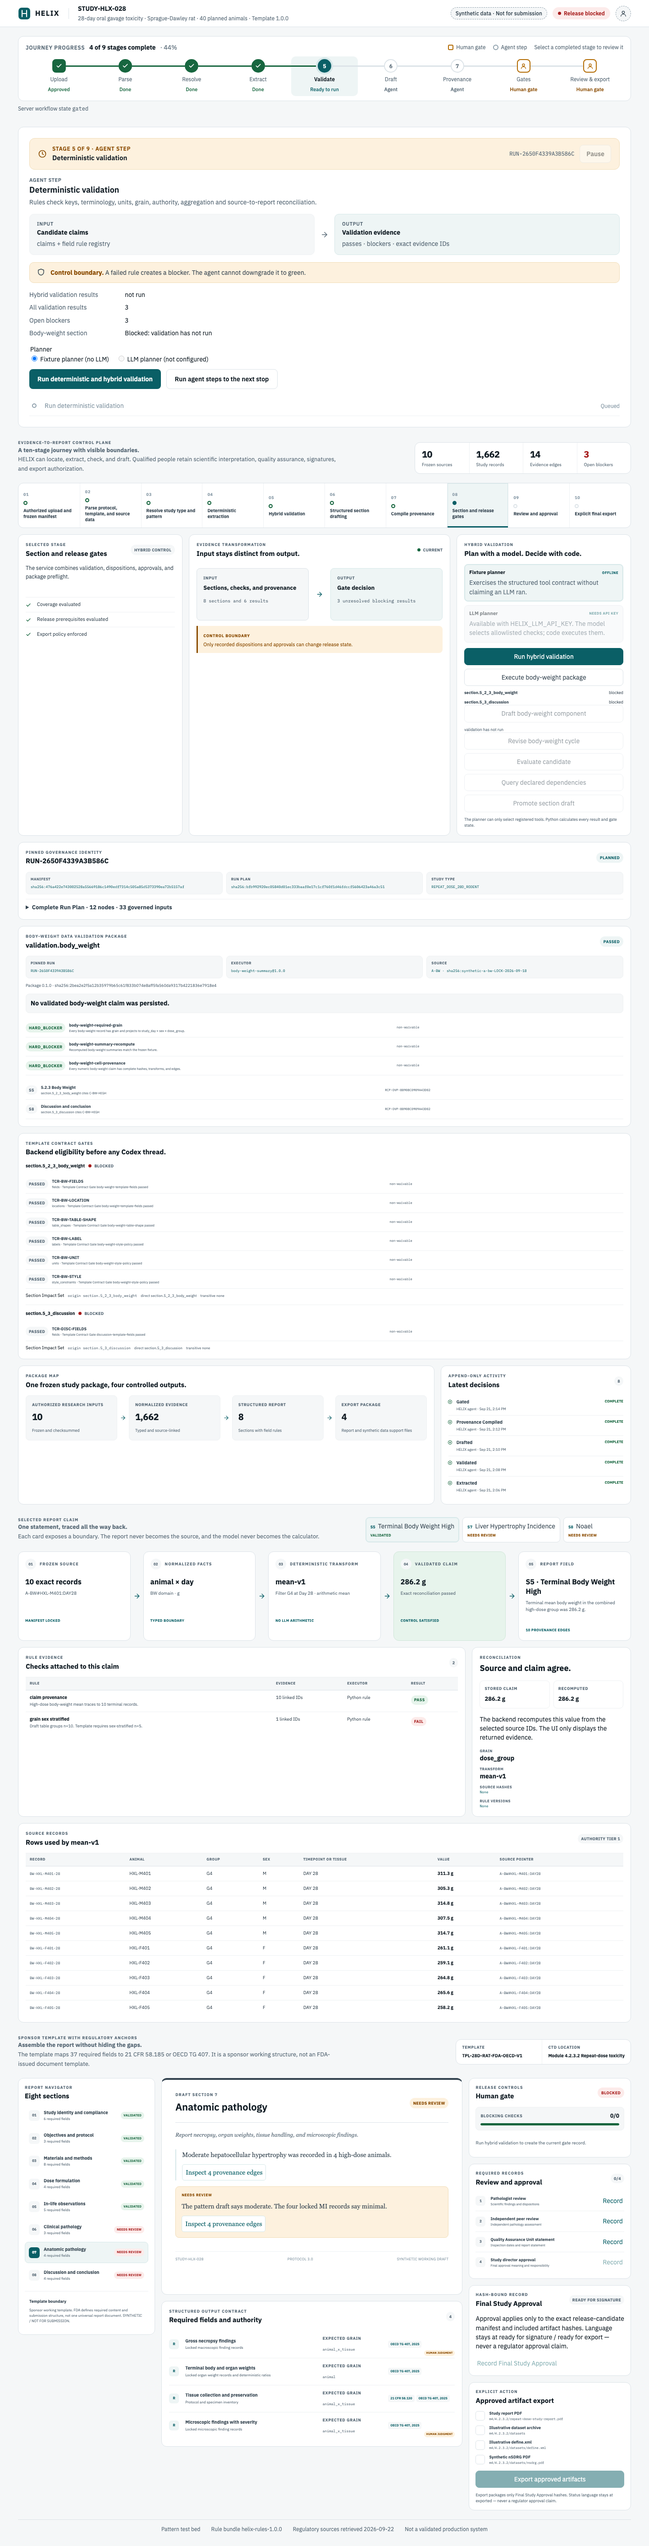
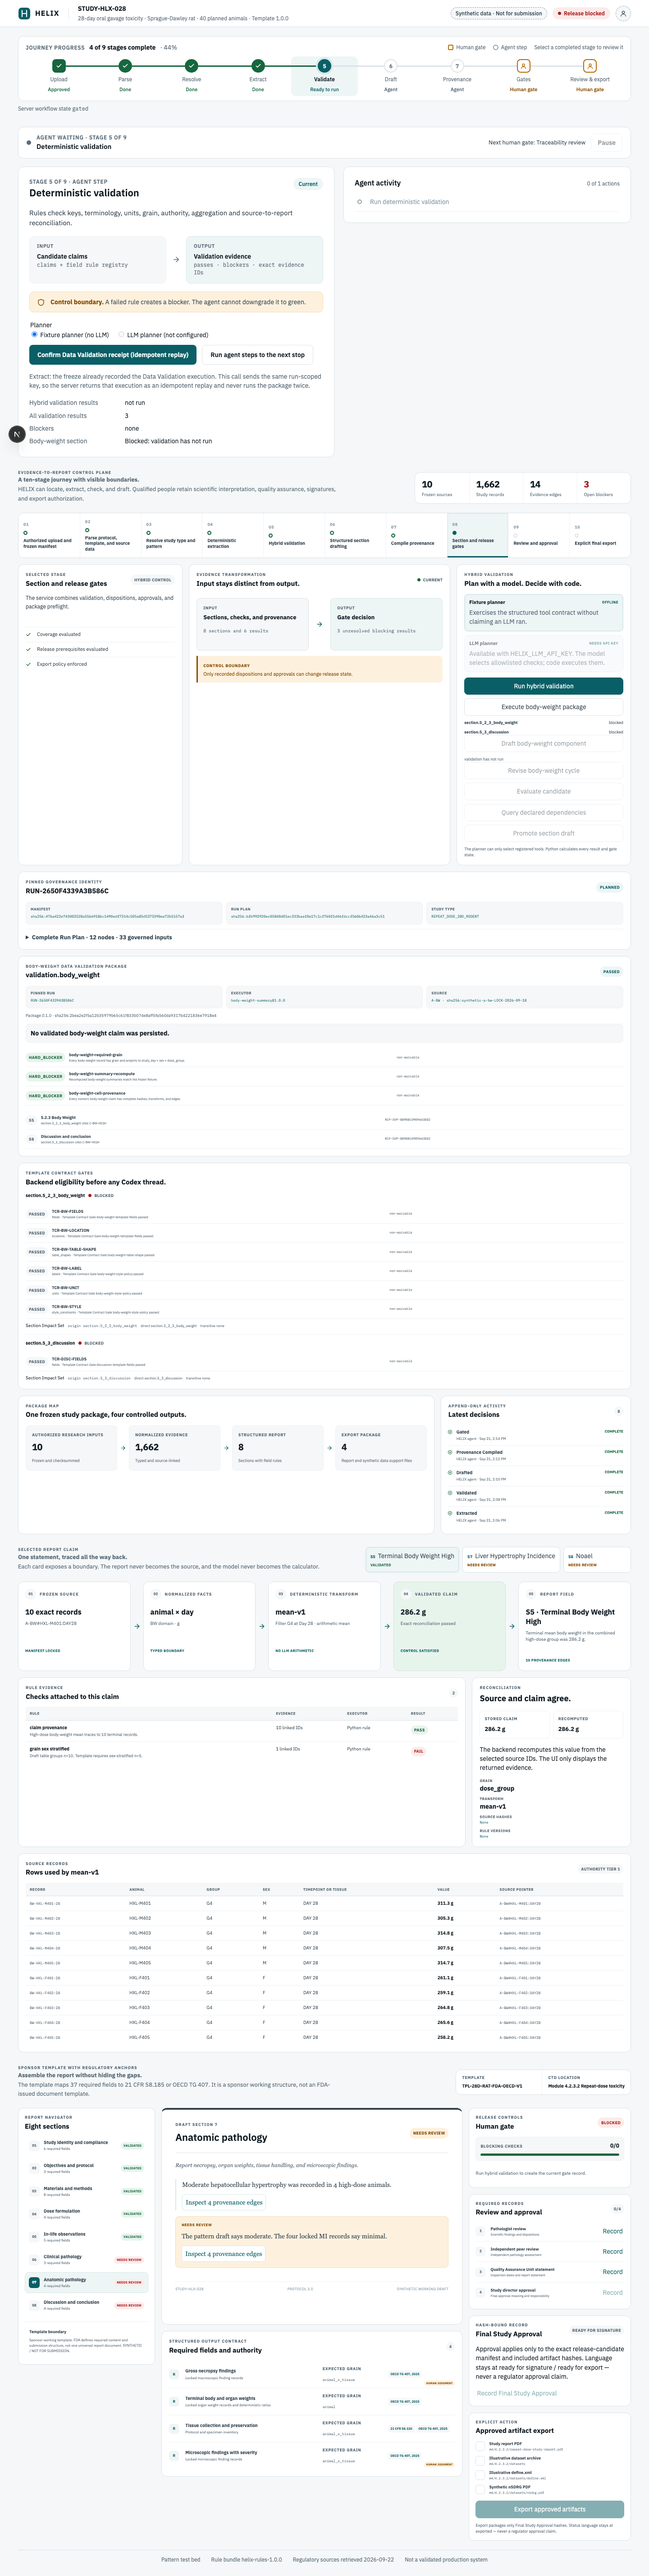
test(ui-lane-b): spec covers replay, #17 keys, live region, eligibility change (#21)
6 mocked Playwright tests; screenshots in evidence/ui-lane-b/.

diff --git a/steven/helix-prototypes/frontend/tests/agent-steps.spec.ts b/steven/helix-prototypes/frontend/tests/agent-steps.spec.ts
@@ -20,6 +20,12 @@ const BW_SECTION = "section.5_2_3_body_weight";
 const runId = freezeFixture.after.pinned_run.run_id;
 const dvResults = (freezeFixture.after.data_validation_executions as Json[])[0].results as Json[];
 
+const sectionNode = (freezeFixture.after.pinned_run.run_plan.nodes as Json[]).find((node) => node.node_id === BW_SECTION);
+const SECTION_RUN_KEY_PREFIX = `workbench:STUDY-HLX-028:${runId}/${BW_SECTION}:section-run:${sectionNode?.package_version ?? "section-run.v1"}`;
+// Backend freeze_data_validation_key(run_id): the freeze and Extract share one run-scoped key.
+const DV_KEY = `dvp-${runId}-validation.body_weight`;
+const CONFIRMED_KEY = "helix.agent-dv-confirmed.v1";
+
 const hybridResult = { ...clone(dvResults[0]), result_id: "VR-HYBRID-TEST-1", executor_id: null };
 
 type Harness = {
@@ -105,11 +111,25 @@ async function harness(page: Page, overrides: Partial<Harness> = {}) {
     record("section-run", route);
     await h.sectionRun(route);
   });
+  // #25 run-event stream: no events in these tests (commands refresh the Workspace).
+  await page.route("**/api/v1/studies/*/pinned-runs/*/events", (route) =>
+    route.fulfill({ status: 200, contentType: "text/event-stream", body: "" }),
+  );
   await page.route("**/api/v1/studies/*/section-runs/*/**", async (route) => {
     record("after-section-run", route);
     await route.fulfill({ status: 500, contentType: "application/json", body: JSON.stringify({ detail: "must not be called" }) });
   });
   return h;
+}
+
+const live = (page: Page) => page.getByTestId("agent-live");
+
+async function confirmFreezeExecution(page: Page) {
+  // The freeze-created execution was already confirmed by an earlier replay in this session.
+  await page.addInitScript(
+    ([key, value]) => window.sessionStorage.setItem(key, JSON.stringify([value])),
+    [CONFIRMED_KEY, runId] as const,
+  );
 }
 
 async function openStage(page: Page, name: RegExp) {
@@ -127,7 +147,12 @@ test("current stage shows server boundary, evidence, and a disabled pause with i
   await page.goto("/");
   const view = page.getByTestId("agent-stage-view");
   await expect(view).toHaveAttribute("data-stage", "validate");
-  await expect(page.getByTestId("agent-run-banner")).toContainText("Stage 5 of 9");
+  await expect(page.getByTestId("agent-run-banner")).toContainText("Agent waiting · Stage 5 of 9");
+  await expect(page.getByTestId("agent-run-banner")).toContainText("Next human gate: Traceability review");
+  await expect(page.getByTestId("agent-stage-card")).toContainText("Stage 5 of 9 · Agent step");
+  await expect(page.getByTestId("agent-activity-card").getByRole("heading", { name: "Agent activity" })).toBeVisible();
+  await expect(page.getByTestId("agent-activity-count")).toHaveText(/^\d+ of \d+ actions$/);
+  await expect(page.getByTestId("agent-live")).toHaveAttribute("aria-live", "polite");
   await expect(page.getByTestId("agent-control-boundary")).toContainText("Control boundary");
   await expect(page.getByTestId("agent-stage-io")).toBeVisible();
   await expect(page.getByTestId("evidence-validation-count")).toContainText("not run");
@@ -158,33 +183,45 @@ test("completed stages are read-only review of recorded actions and never send c
   expect(commands).toEqual([]);
 });
 
-test("the sequence waits for refreshed state, stops on the first failure, and runs nothing after it", async ({ page }) => {
+test("the sequence replays Extract, waits for refreshed state, stops on the first failure, and runs nothing after it", async ({ page }) => {
   const h = await harness(page);
   const commands = trackCommands(page);
   await page.goto("/");
   await page.getByTestId("agent-run-sequence").click();
-  await expect(page.locator(".hx-notice.t-block")).toContainText("Run governed Section Agent failed");
-  await expect(page.locator(".hx-notice.t-block")).toContainText("Section Agent unavailable (test double).");
-  await expect(page.locator(".hx-notice.t-block")).toContainText("later steps did not run");
-  await expect(page.locator(".hx-notice.t-block")).toHaveAttribute("role", "status");
-  // Governed order: validation, then (after the refresh made the section eligible) the section run.
+  await expect(live(page)).toHaveAttribute("data-tone", "block");
+  await expect(live(page)).toContainText("Run governed Section Agent failed");
+  await expect(live(page)).toContainText("Section Agent unavailable (test double).");
+  await expect(live(page)).toContainText("later steps did not run");
+  await expect(live(page)).toHaveAttribute("role", "status");
+  await expect(live(page)).toHaveAttribute("aria-live", "polite");
+  // Governed order: the freeze-created execution is re-addressed (replay), then validation,
+  // then (after the refresh made the section eligible) the section run.
   expect(commands.filter((item) => !item.endsWith("/workspace"))).toEqual([
+    "POST /api/v1/studies/STUDY-HLX-028/data-validation-packages",
     "POST /api/v1/studies/STUDY-HLX-028/validation-runs",
     "POST /api/v1/studies/STUDY-HLX-028/section-runs",
   ]);
+  expect(h.bodies["data-validation"]).toEqual([
+    { actor: "HELIX workbench", package_id: "validation.body_weight", idempotency_key: DV_KEY },
+  ]);
   expect(h.bodies["after-section-run"]).toBeUndefined();
-  // The section-run key is run-scoped per #17.
-  expect(h.bodies["section-run"][0].idempotency_key).toBe(
-    `workbench:STUDY-HLX-028:${runId}:section-run:${BW_SECTION}:a1`,
-  );
+  // #17: governed resource (Pinned Run + section package), command, package version, action ID.
+  expect(h.bodies["section-run"][0].idempotency_key).toBe(`${SECTION_RUN_KEY_PREFIX}:a1`);
   await expect(page.getByTestId("agent-stage-view")).toHaveAttribute("data-stage", "draft");
   await expect(page.getByTestId("evidence-draft")).toHaveCount(0);
   await expect(page.getByTestId("agent-evidence-missing")).toContainText("has not run");
   await page.screenshot({ path: "../evidence/ui-lane-b/agent-sequence-stopped.png", fullPage: true });
+  // Eligibility before and after the validation run, from the two server snapshots.
+  await stageButtons(page).filter({ hasText: /Validate/ }).first().click();
+  await expect(page.getByTestId("evidence-eligibility-before")).toContainText("Blocked");
+  await expect(page.getByTestId("evidence-eligibility")).toContainText("Eligible to draft");
+  await expect(page.getByTestId("evidence-validation-run")).toContainText("VAL-TEST-1");
+  await page.screenshot({ path: "../evidence/ui-lane-b/agent-validate-eligibility-change.png", fullPage: true });
 });
 
 test("an unknown result reuses the key; a definite rejection gets a new attempt key", async ({ page }) => {
   let failFirst = true;
+  await confirmFreezeExecution(page);
   const h = await harness(page, {
     validated: true,
     sectionRun: async (route) => {
@@ -204,36 +241,65 @@ test("an unknown result reuses the key; a definite rejection gets a new attempt 
   await expect(page.getByTestId("agent-stage-view")).toHaveAttribute("data-stage", "draft");
   const run = page.getByTestId("agent-run-step");
   await run.click();
-  await expect(page.locator(".hx-notice.t-block")).toContainText("Run governed Section Agent failed");
+  await expect(live(page)).toContainText("Run governed Section Agent failed");
   await run.click();
-  await expect(page.locator(".hx-notice.t-block")).toContainText("conflicts with server state");
+  await expect(live(page)).toContainText("conflicts with server state");
   await run.click();
   await expect.poll(() => h.bodies["section-run"]?.length).toBe(3);
   const keys = h.bodies["section-run"].map((body) => body.idempotency_key);
-  const prefix = `workbench:STUDY-HLX-028:${runId}:section-run:${BW_SECTION}`;
-  expect(keys).toEqual([`${prefix}:a1`, `${prefix}:a1`, `${prefix}:a2`]);
+  expect(keys).toEqual([`${SECTION_RUN_KEY_PREFIX}:a1`, `${SECTION_RUN_KEY_PREFIX}:a1`, `${SECTION_RUN_KEY_PREFIX}:a2`]);
 });
 
-test("extract replays the freeze-created execution instead of running a second one", async ({ page }) => {
+test("extract replays the freeze-created execution with the freeze's key and never runs a second one", async ({ page }) => {
+  const executions = freezeFixture.after.data_validation_executions as Json[];
+  const h = await harness(page);
+  await page.goto("/");
+  await expect(page.getByTestId("agent-stage-view")).toHaveAttribute("data-stage", "validate");
+  // The freeze already recorded the execution, so the next governed command is its replay.
+  await expect(page.getByTestId("agent-replay-note")).toContainText("idempotent replay");
+  await openStage(page, /Extract/);
+  await expect(page.getByTestId("agent-commands")).toHaveCount(0);
+  await openStage(page, /Validate/);
+  await expect(page.getByTestId("agent-run-step")).toHaveText("Confirm Data Validation receipt (idempotent replay)");
+  await page.getByTestId("agent-run-step").click();
+  await expect(live(page)).toContainText("returned the recorded execution");
+  await expect(live(page)).toContainText("as an idempotent replay");
+  expect(h.bodies["data-validation"]).toHaveLength(1);
+  // Confirmed for this Pinned Run: the next command is validation, not a second replay.
+  await expect(page.getByTestId("agent-run-step")).toHaveText("Run deterministic and hybrid validation");
+  expect(h.bodies["data-validation"][0].idempotency_key).toBe(DV_KEY);
+  await stageButtons(page).filter({ hasText: /Extract/ }).first().click();
+  await expect(page.getByTestId("evidence-dvp-replay")).toContainText("idempotent replay of the recorded execution");
+  await expect(page.getByTestId("evidence-dvp-replay")).toContainText(String((executions[0].receipt as Json).receipt_id));
+  await expect(page.getByTestId("evidence-dvp-receipt")).toContainText(String((executions[0].receipt as Json).receipt_id));
+  await page.screenshot({ path: "../evidence/ui-lane-b/agent-extract-replay.png", fullPage: true });
+});
+
+test("extract executes the missing package once, with the freeze's run-scoped key", async ({ page }) => {
   const h = await harness(page);
   await page.route("**/api/v1/studies/*/workspace", async (route) => {
-    const live = await liveWorkspace(route);
-    if (!live) return;
+    const liveBody = await liveWorkspace(route);
+    if (!liveBody) return;
     // Freeze left the package absent: Extract is the current stage.
-    const workspace = frozenWorkspace(live, { data_validation_executions: [], validations: [], journey: journeyAt("extract") });
+    const workspace = frozenWorkspace(liveBody, { data_validation_executions: [], validations: [], journey: journeyAt("extract") });
     if (h.bodies["data-validation"]?.length) {
       Object.assign(workspace, { data_validation_executions: freezeFixture.after.data_validation_executions, journey: journeyAt("validate") });
     }
     await route.fulfill({ status: 200, contentType: "application/json", body: JSON.stringify(workspace) });
   });
+  h.dataValidation = (route) =>
+    route.fulfill({
+      status: 201,
+      contentType: "application/json",
+      body: JSON.stringify((freezeFixture.after.data_validation_executions as Json[])[0]),
+    });
   await page.goto("/");
   await expect(page.getByTestId("agent-stage-view")).toHaveAttribute("data-stage", "extract");
   await page.getByTestId("agent-run-step").click();
-  await expect(page.locator(".hx-notice.t-info")).toContainText("Execute Data Validation Package: recorded by the server.");
+  await expect(live(page)).toContainText("Execute Data Validation Package: recorded by the server.");
   expect(h.bodies["data-validation"]).toHaveLength(1);
-  expect(h.bodies["data-validation"][0]).toMatchObject({
-    package_id: "validation.body_weight",
-    idempotency_key: `workbench:STUDY-HLX-028:${runId}:data-validation:${BW_SECTION}:a1`,
-  });
+  expect(h.bodies["data-validation"][0]).toMatchObject({ package_id: "validation.body_weight", idempotency_key: DV_KEY });
   await expect(page.getByTestId("agent-stage-view")).toHaveAttribute("data-stage", "validate");
+  // The execution is now confirmed for this Pinned Run: no replay is queued before validation.
+  await expect(page.getByTestId("agent-run-step")).toHaveText("Run deterministic and hybrid validation");
 });
